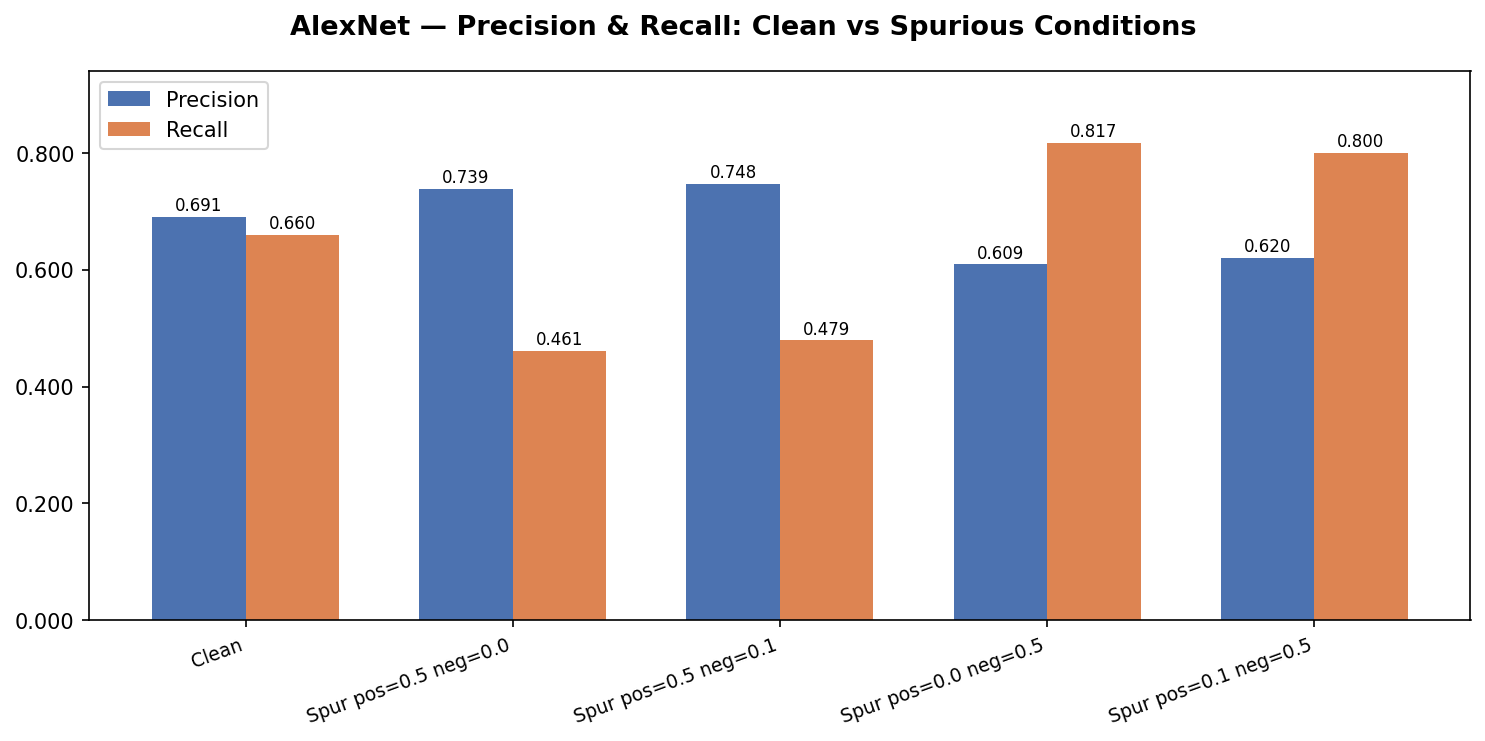
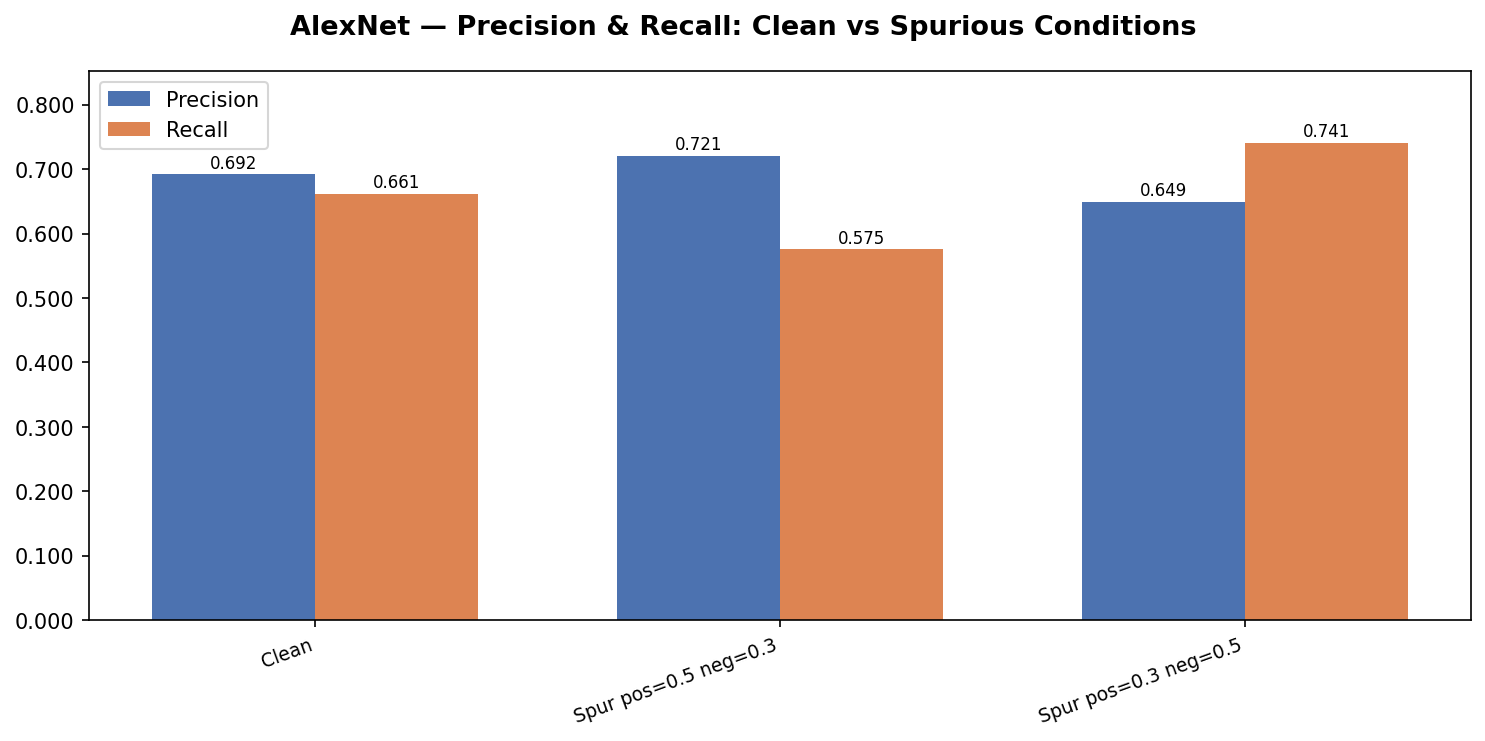
upating sweep

diff --git a/train_sweep.py b/train_sweep.py
@@ -1,57 +1,60 @@
 from shared import run_training
-from models.alexnet import AlexNet 
-from models.resnet50    import ResNet
-from models.vgg16       import VGG16
-from models.densenet121 import DenseNet121
+from models.alexnet import AlexNet
+from models.resnet50 import resnet50
 from models.inceptionv3 import Inception3
+
 import os
 import json
 
+# Three marker shapes
+SHAPES = ["star", "circle", "wave"]
+
+# Three difficulty cases as they appear in Fig. 7 of the original draft
+DIFFICULTY_CONFIGS = {
+    "obvious":      dict(star_size=35, blend_range=(0.8, 1.0)),
+    "intermediate": dict(star_size=20, blend_range=(0.6, 0.8)),
+    "subtle":       dict(star_size=15, blend_range=(0.4, 0.6)),
+}
+
+# (pos, neg) contamination ratios to emphasize the PR signature trend
+CONTAMINATION_RATIOS = [
+    (0.5, 0.0),
+    (0.5, 0.1),
+    (0.5, 0.3),
+    (0.5, 0.5),
+    (0.3, 0.5),
+    (0.1, 0.5),
+    (0.0, 0.5),
+]
+
 ARCHITECTURES = [
     ("alexnet",     lambda: AlexNet(dropout=0.3)),
-    ("resnet50",    lambda: ResNet(dropout=0.3)),
-    ("vgg16",       lambda: VGG16(dropout=0.3)),
-    ("densenet121", lambda: DenseNet121(dropout=0.3)),
-    ("inception3",  lambda: Inception3(dropout=0.3)),
+    ("inceptionv3", lambda: Inception3(dropout=0.3)),
+    ("resnet50",    lambda: resnet50(dropout=0.3)),
 ]
 
 if __name__ == "__main__":
-    SPUR_P_POS, SPUR_P_NEG = 0.5, 0.1
-    shapes = ["star", "circle", "wave"]
-    sizes  = {"small": 15, "medium": 20, "large": 35}
-    blends = {"subtle": (0.4, 0.6), "moderate": (0.6, 0.8)}
-
     summary = {}
+
     for arch_name, model_fn in ARCHITECTURES:
-        for shape in shapes:
-            for size_label, size_px in sizes.items():
-                for blend_label, blend_range in blends.items():
-                    base = f"{arch_name}_{shape}_{size_label}_{blend_label}"
-
-                    # Model A: trained WITH spurious cue
+        for shape in SHAPES:
+            for difficulty, diff_cfg in DIFFICULTY_CONFIGS.items():
+                for p_pos, p_neg in CONTAMINATION_RATIOS:
+                    run_name = f"{arch_name}_{shape}_{difficulty}_pos{p_pos}_neg{p_neg}"
+                    print(f"\n>>> Training {run_name}")
                     try:
-                        spur_m, _ = run_training(
-                            model_fn, f"{base}_spur",
-                            spurious_prob_pos=SPUR_P_POS,
-                            spurious_prob_neg=SPUR_P_NEG,
-                            shape=shape, color=None, star_size=size_px, blend_range=blend_range,
+                        test_m, _ = run_training(
+                            model_fn, run_name,
                             epochs=20,
+                            spurious_prob_pos=p_pos,
+                            spurious_prob_neg=p_neg,
+                            shape=shape,
+                            **diff_cfg,
                         )
+                        summary[run_name] = test_m
                     except Exception as e:
-                        spur_m = {"error": str(e)}
+                        summary[run_name] = {"error": str(e)}
+                        print(f"!! {run_name} failed: {e}")
 
-                    # Model B: clean baseline
-                    try:
-                        clean_m, _ = run_training(
-                            model_fn, f"{base}_clean",
-                            spurious_prob_pos=0.0, spurious_prob_neg=0.0,
-                            shape=shape, color=None, star_size=size_px, blend_range=blend_range,
-                            epochs=10,
-                        )
-                    except Exception as e:
-                        clean_m = {"error": str(e)}
-
-                    summary[base] = {"spur": spur_m, "clean": clean_m}
-                    
-        with open(os.path.join("..", "results", "summary_sweep.json"), "w") as f:
-            json.dump(summary, f, indent=2)
+                    with open(os.path.join("..", "results", "summary.json"), "w") as f:
+                        json.dump(summary, f, indent=2)
